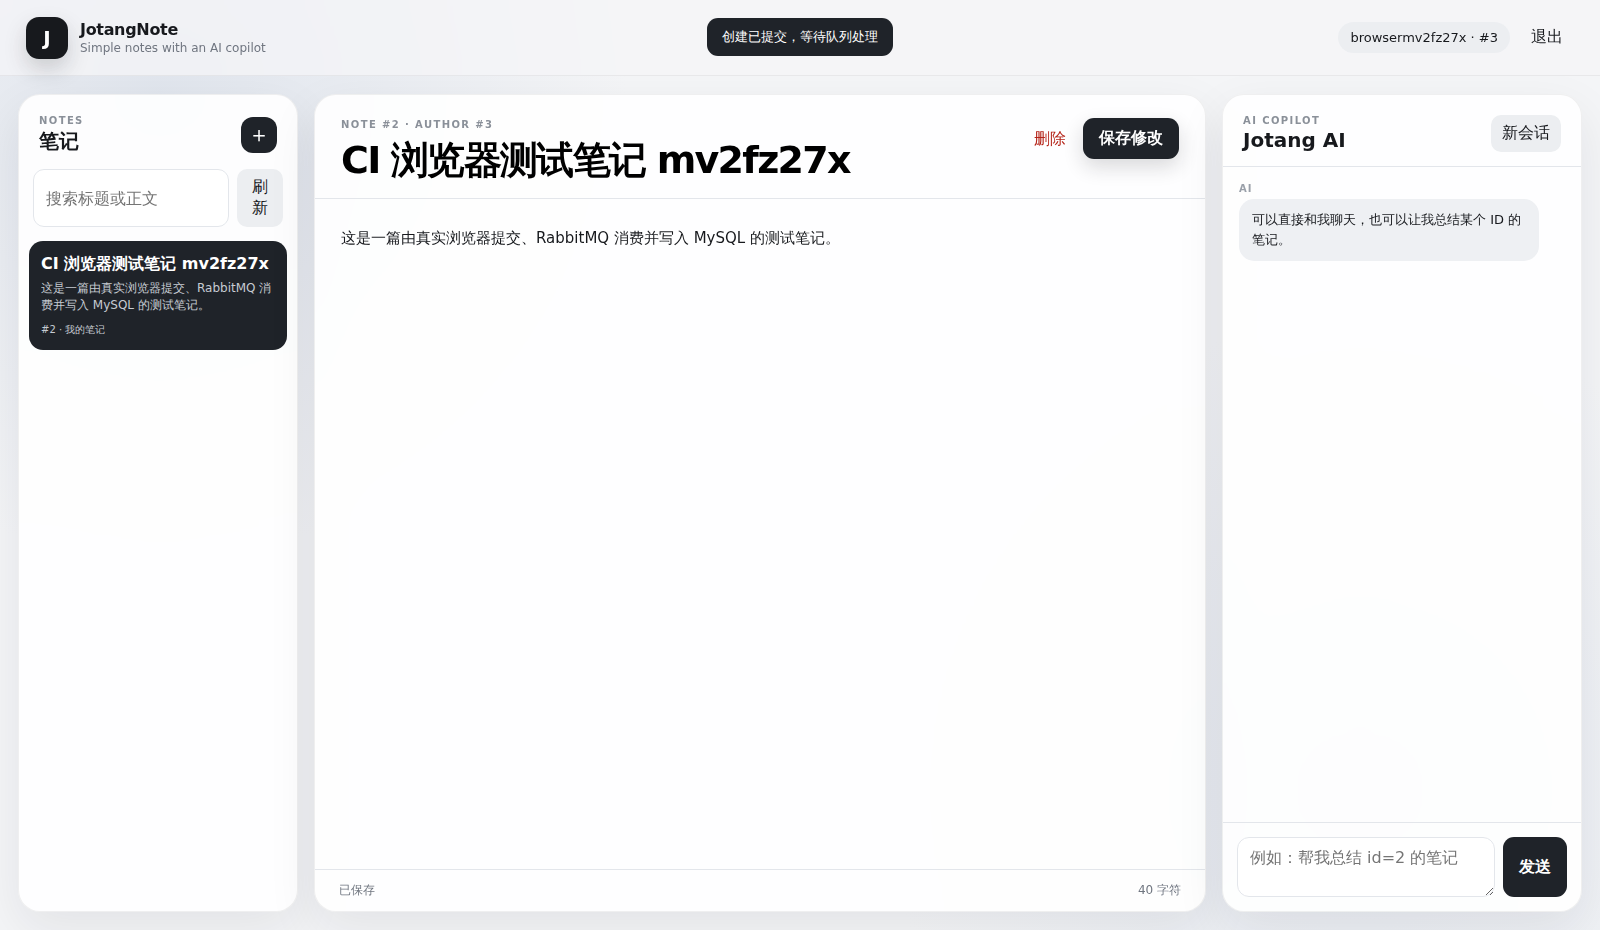
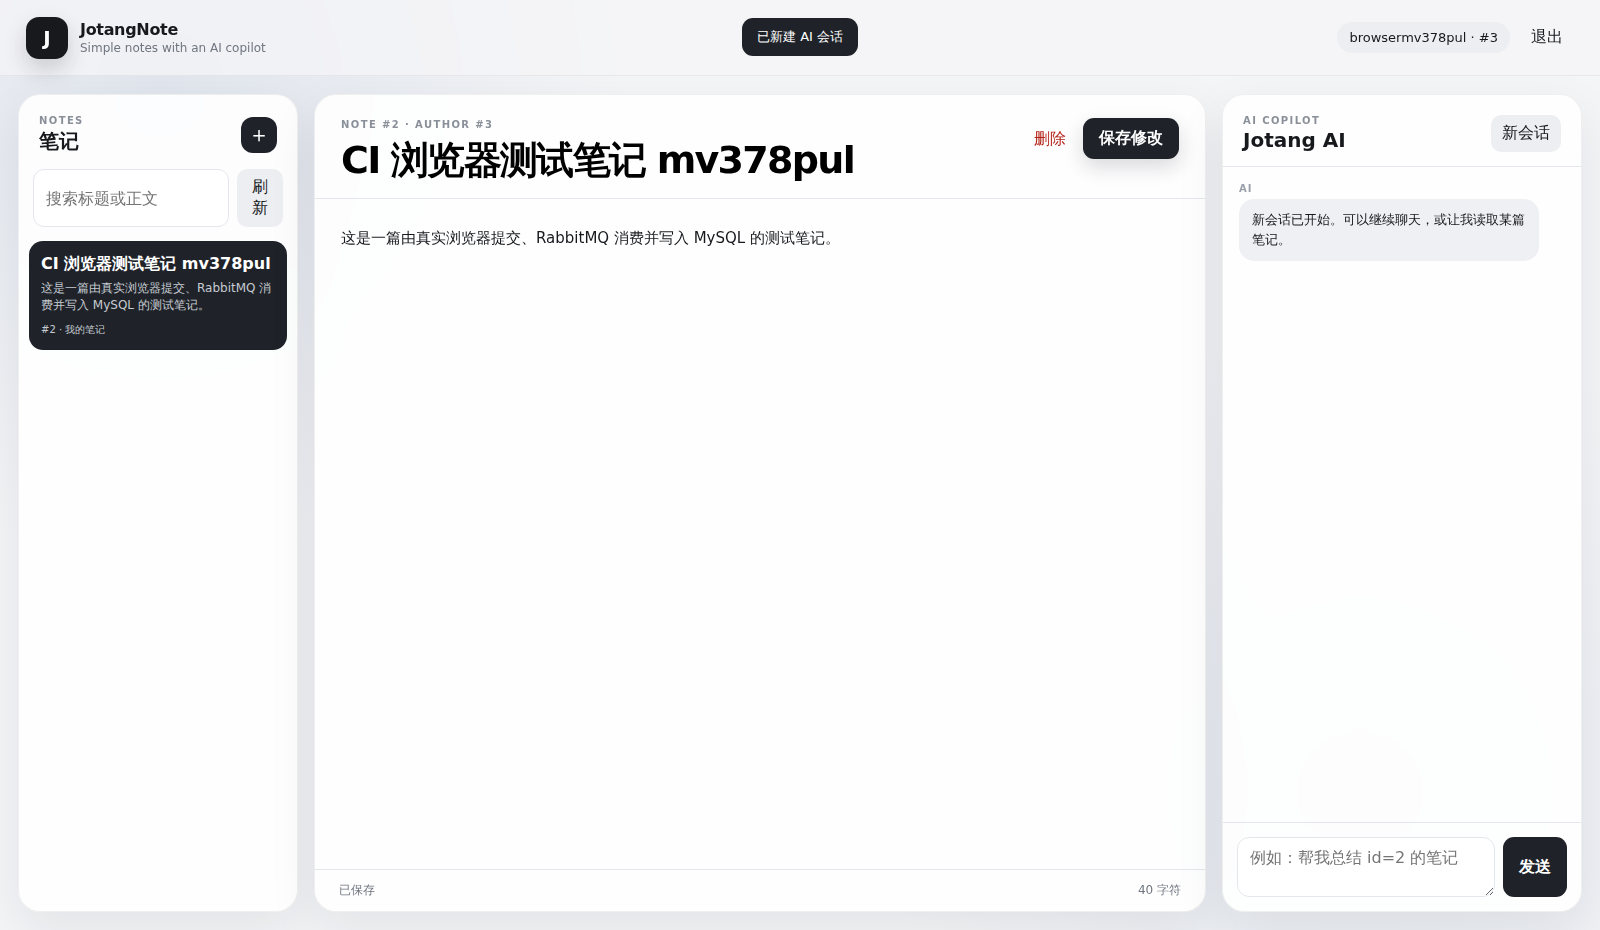
docs: capture real browser and CI test screenshots

diff --git a/Notes/AI-在线测试报告.md b/Notes/AI-在线测试报告.md
@@ -1,0 +1,19 @@
+# DeepSeek 在线端到端测试
+
+执行时间（UTC）：`2026-10-11T02:23:58.881Z`
+
+GitHub Actions：[查看运行记录](https://github.com/ressuir/JotangNote/actions/runs/38104919236)
+
+模型：`deepseek-flash`，非思考模式；真实调用后端 `POST /chat`。
+
+| 场景 | 实际检查 | 结果 |
+| --- | --- | --- |
+| 普通 AI 回复 | 浏览器调用 /chat，HTTP 200，回复非空 | PASS |
+| 多轮对话 | 记住动态校验词，下一轮能准确复述 | PASS |
+| Tool Use | 创建 MySQL 笔记，模型调用 get_note 并复述正文中没有出现在提问里的动态标识 | PASS |
+| 用户隔离 | 第二个账号通过 AI 读取第一位用户的笔记，不能得到校验标识 | PASS |
+| 浏览器 | 实际登录、创建笔记、显示模型回复并保存截图 | PASS |
+
+![真实在线 AI 测试截图](screenshots/05-ai-live.png)
+
+说明：测试使用仅供测试的临时笔记与随机字符串，不输出 API Key、用户 Cookie。测试通过表明上述具体场景可用，不意味着覆盖全部故障场景。
